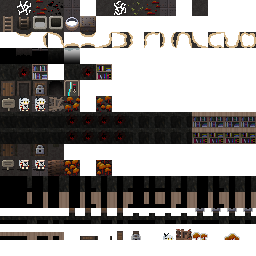
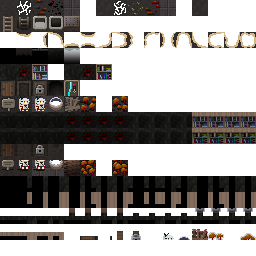
스프라이트 수정, 이미지 배열 수정

diff --git a/core/src/main/java/com/gfpixel/gfpixeldungeon/sprites/ItemSpriteSheet.java b/core/src/main/java/com/gfpixel/gfpixeldungeon/sprites/ItemSpriteSheet.java
@@ -51,12 +51,13 @@ public class ItemSpriteSheet {
 		assignItemRect(WEAPON_HOLDER,   14, 14);
 		assignItemRect(ARMOR_HOLDER,    14, 12);
 		assignItemRect(WAND_HOLDER,     14, 14);
-		assignItemRect(RING_HOLDER,     8,  10);
+		assignItemRect(RING_HOLDER,     15,  10);
 		assignItemRect(ARTIFACT_HOLDER, 15, 15);
 		assignItemRect(POTION_HOLDER,   10, 14);
 		assignItemRect(SCROLL_HOLDER,   15, 14);
 		assignItemRect(SOMETHING,       8,  13);
 	}
+
 
 	private static final int UNCOLLECTIBLE  =                               xy(1, 2);   //16 slots
 	public static final int GOLD            = UNCOLLECTIBLE+0;
@@ -97,7 +98,7 @@ public class ItemSpriteSheet {
 	private static final int SINGLE_USE     =                               xy(1, 4);   //16 slots
 	public static final int ANKH            = SINGLE_USE+0;
 	public static final int STYLUS          = SINGLE_USE+1;
-	
+	public static final int WEIGHT          = SINGLE_USE+2;
 	public static final int SEAL            = SINGLE_USE+3;
 	public static final int TORCH           = SINGLE_USE+4;
 	public static final int BEACON          = SINGLE_USE+5;
@@ -114,9 +115,9 @@ public class ItemSpriteSheet {
 	static{
 		assignItemRect(ANKH,            10, 16);
 		assignItemRect(STYLUS,          12, 13);
-		
+		assignItemRect(WEIGHT,          14, 12);
 		assignItemRect(SEAL,            9,  15);
-		assignItemRect(TORCH,           12, 15);
+		assignItemRect(TORCH,           15, 15);
 		assignItemRect(BEACON,          16, 15);
 		assignItemRect(BOMB,            10, 13);
 		assignItemRect(HONEYPOT,        14, 12);
@@ -133,17 +134,24 @@ public class ItemSpriteSheet {
 	                                                                                    //32 free slots
 
 	private static final int WEP_TIER1      =                               xy(1, 7);   //8 slots
-	public static final int WORN_SHORTSWORD = WEP_TIER1+0;
-	public static final int CUDGEL          = WEP_TIER1+1;
+	public static final int UMP45        = WEP_TIER1+0;
+	public static final int DP             = WEP_TIER1+1;
 	public static final int KNUCKLEDUSTER   = WEP_TIER1+2;
-	public static final int RAPIER          = WEP_TIER1+3;
+	public static final int UMP40          = WEP_TIER1+3;
 	public static final int DAGGER          = WEP_TIER1+4;
 	public static final int MAGES_STAFF     = WEP_TIER1+5;
+	public static final int SR3          = WEP_TIER1+6;
+	public static final int CANON         = WEP_TIER1+7;
 	static{
-		assignItemRect(WORN_SHORTSWORD, 15, 16);
+		assignItemRect(UMP45, 15, 16);
+		assignItemRect(DP,     15, 16);
 		assignItemRect(KNUCKLEDUSTER,   15, 10);
+		assignItemRect(UMP40, 			   16, 16);
 		assignItemRect(DAGGER,          12, 13);
 		assignItemRect(MAGES_STAFF,     15, 16);
+		assignItemRect(SR3,     15, 16);
+		assignItemRect(CANON,     17, 15);
+
 	}
 
 	private static final int WEP_TIER2      =                               xy(9, 7);   //8 slots
@@ -152,12 +160,14 @@ public class ItemSpriteSheet {
 	public static final int SPEAR           = WEP_TIER2+2;
 	public static final int QUARTERSTAFF    = WEP_TIER2+3;
 	public static final int DIRK            = WEP_TIER2+4;
+	public static final int G36            = WEP_TIER2+5;
 	static{
-		assignItemRect(SHORTSWORD,      13, 13);
+		assignItemRect(SHORTSWORD,      15, 16);
 		assignItemRect(HAND_AXE,        12, 14);
 		assignItemRect(SPEAR,           16, 16);
 		assignItemRect(QUARTERSTAFF,    16, 16);
 		assignItemRect(DIRK,            13, 14);
+		assignItemRect(G36,            16, 16);
 	}
 
 	private static final int WEP_TIER3      =                               xy(1, 8);   //8 slots
@@ -167,13 +177,15 @@ public class ItemSpriteSheet {
 	public static final int ROUND_SHIELD    = WEP_TIER3+3;
 	public static final int SAI             = WEP_TIER3+4;
 	public static final int WHIP            = WEP_TIER3+5;
+	public static final int C96            = WEP_TIER3+6;
 	static{
-		assignItemRect(SWORD,           14, 14);
+		assignItemRect(SWORD,           16, 16);
 		assignItemRect(MACE,            15, 15);
-		assignItemRect(SCIMITAR,        13, 16);
-		assignItemRect(ROUND_SHIELD,    16, 16);
+		assignItemRect(SCIMITAR,        16, 16);
+		assignItemRect(ROUND_SHIELD,    15, 14);
 		assignItemRect(SAI,             16, 16);
 		assignItemRect(WHIP,            14, 14);
+		assignItemRect(C96,            8, 12);
 	}
 
 	private static final int WEP_TIER4      =                               xy(9, 8);   //8 slots
@@ -182,14 +194,16 @@ public class ItemSpriteSheet {
 	public static final int FLAIL           = WEP_TIER4+2;
 	public static final int RUNIC_BLADE     = WEP_TIER4+3;
 	public static final int ASSASSINS_BLADE = WEP_TIER4+4;
-	public static final int CROSSBOW        = WEP_TIER4+5;
+	public static final int AWP               = WEP_TIER4+5;
+	public static final int CROSSBOW        = WEP_TIER4+6;
 	static{
 		assignItemRect(LONGSWORD,       15, 15);
 		assignItemRect(BATTLE_AXE,      16, 16);
 		assignItemRect(FLAIL,           14, 14);
 		assignItemRect(RUNIC_BLADE,     14, 14);
 		assignItemRect(ASSASSINS_BLADE, 14, 15);
-		assignItemRect(CROSSBOW,        15, 15);
+		assignItemRect(AWP,               16, 18);
+		assignItemRect(CROSSBOW,        16, 18);
 	}
 
 	private static final int WEP_TIER5      =                               xy(1, 9);   //8 slots
@@ -198,19 +212,31 @@ public class ItemSpriteSheet {
 	public static final int GLAIVE          = WEP_TIER5+2;
 	public static final int GREATAXE        = WEP_TIER5+3;
 	public static final int GREATSHIELD     = WEP_TIER5+4;
-	public static final int GAUNTLETS       = WEP_TIER5+5;
+	public static final int LAR              = WEP_TIER5+5;
 	static{
 		assignItemRect(GREATSWORD,  16, 16);
 		assignItemRect(WAR_HAMMER,  16, 16);
 		assignItemRect(GLAIVE,      16, 16);
 		assignItemRect(GREATAXE,    12, 16);
 		assignItemRect(GREATSHIELD, 12, 16);
-		assignItemRect(GAUNTLETS,   13, 15);
+		assignItemRect(LAR,            11, 15);
 	}
 
-	                                                                                    //8 free slots
+	private static final int WEP_TIER6      =                               xy(1, 12);
+	public static final int NTW20            = WEP_TIER6+0;
+	public static final int MG42			= WEP_TIER6+1;
+	public static final int SAIGA			= WEP_TIER6+2;
+	public static final int NAGANT			= WEP_TIER6+3;
+	public static final int GROZA			= WEP_TIER6+4;
+	static{
+		assignItemRect(NTW20,     17, 17);
+		assignItemRect(MG42,     17, 17);
+		assignItemRect(SAIGA,     17, 17);
+		assignItemRect(NAGANT,     17, 17);
+		assignItemRect(GROZA,     17, 17);
+	}
 
-	private static final int MISSILE_WEP    =                               xy(1, 10);  //16 slots. 3 per tier + boomerang
+	private static final int MISSILE_WEP    =                               xy(1, 5);  //16 slots. 3 per tier + boomerang
 	public static final int BOOMERANG       = MISSILE_WEP+0;
 	
 	public static final int DART            = MISSILE_WEP+1;
@@ -231,25 +257,25 @@ public class ItemSpriteSheet {
 	
 	static{
 		assignItemRect(BOOMERANG,       14, 14);
-		
-		assignItemRect(DART,            15, 15);
-		assignItemRect(THROWING_KNIFE,  12, 13);
-		assignItemRect(THROWING_STONE,  12, 10);
-		
+
+		assignItemRect(DART,            11, 11);
+		assignItemRect(THROWING_KNIFE,  16, 14);
+		assignItemRect(THROWING_STONE,  9,  9);
+
 		assignItemRect(FISHING_SPEAR,   11, 11);
 		assignItemRect(SHURIKEN,        12, 12);
-		
-		assignItemRect(THROWING_SPEAR,  13, 13);
+
+		assignItemRect(THROWING_SPEAR,  13, 12);
 		assignItemRect(BOLAS,           15, 14);
-		
-		assignItemRect(JAVELIN,         16, 16);
+
+		assignItemRect(JAVELIN,         16, 15);
 		assignItemRect(TOMAHAWK,        13, 13);
-		
+
 		assignItemRect(TRIDENT,         16, 16);
 		assignItemRect(THROWING_HAMMER, 12, 12);
 	}
 	
-	public static final int TIPPED_DARTS    =                               xy(1, 11);  //16 slots
+	public static final int TIPPED_DARTS    =                               xy(1, 6);  //16 slots
 	public static final int ROT_DART        = TIPPED_DARTS+0;
 	public static final int INCENDIARY_DART = TIPPED_DARTS+1;
 	public static final int HOLY_DART       = TIPPED_DARTS+2;
@@ -263,10 +289,10 @@ public class ItemSpriteSheet {
 	public static final int DISPLACING_DART = TIPPED_DARTS+10;
 	static {
 		for (int i = TIPPED_DARTS; i < TIPPED_DARTS+16; i++)
-			assignItemRect(i, 15, 15);
+			assignItemRect(i, 11, 11);
 	}
-	
-	private static final int ARMOR          =                               xy(1, 12);  //16 slots
+
+	private static final int ARMOR          =                               xy(1, 11);  //16 slots
 	public static final int ARMOR_CLOTH     = ARMOR+0;
 	public static final int ARMOR_LEATHER   = ARMOR+1;
 	public static final int ARMOR_MAIL      = ARMOR+2;
@@ -276,6 +302,7 @@ public class ItemSpriteSheet {
 	public static final int ARMOR_MAGE      = ARMOR+6;
 	public static final int ARMOR_ROGUE     = ARMOR+7;
 	public static final int ARMOR_HUNTRESS  = ARMOR+8;
+	public static final int ARMOR_UMP40 	= ARMOR+9;
 	static{
 		assignItemRect(ARMOR_CLOTH,     15, 12);
 		assignItemRect(ARMOR_LEATHER,   14, 13);
@@ -286,6 +313,7 @@ public class ItemSpriteSheet {
 		assignItemRect(ARMOR_MAGE,      15, 15);
 		assignItemRect(ARMOR_ROGUE,     14, 12);
 		assignItemRect(ARMOR_HUNTRESS,  13, 15);
+		assignItemRect(ARMOR_UMP40,  12, 12);
 	}
 
 	                                                                                    //16 free slots
@@ -304,9 +332,11 @@ public class ItemSpriteSheet {
 	public static final int WAND_WARDING        = WANDS+10;
 	public static final int WAND_REGROWTH       = WANDS+11;
 	public static final int WAND_TRANSFUSION    = WANDS+12;
+	public static final int M79                   = WANDS+13;
+	public static final int M84                   = WANDS+14;
 	static {
 		for (int i = WANDS; i < WANDS+16; i++)
-			assignItemRect(i, 14, 14);
+			assignItemRect(i, 15, 15);
 	}
 
 	private static final int RINGS          =                               xy(1, 15);  //16 slots
@@ -324,7 +354,7 @@ public class ItemSpriteSheet {
 	public static final int RING_DIAMOND    = RINGS+11;
 	static {
 		for (int i = RINGS; i < RINGS+16; i++)
-			assignItemRect(i, 8, 10);
+			assignItemRect(i, 15, 10);
 	}
 
 	private static final int ARTIFACTS          =                            xy(1, 16);  //32 slots
@@ -376,7 +406,6 @@ public class ItemSpriteSheet {
 		assignItemRect(ARTIFACT_ROSE2,      14, 14);
 		assignItemRect(ARTIFACT_ROSE3,      14, 14);
 	}
-
 	                                                                                    //32 free slots
 
 	private static final int SCROLLS        =                               xy(1, 20);  //16 slots
@@ -392,11 +421,12 @@ public class ItemSpriteSheet {
 	public static final int SCROLL_BERKANAN = SCROLLS+9;
 	public static final int SCROLL_ODAL     = SCROLLS+10;
 	public static final int SCROLL_TIWAZ    = SCROLLS+11;
+	public static final int CLIP             = SCROLLS+12;
 	static {
 		for (int i = SCROLLS; i < SCROLLS+16; i++)
 			assignItemRect(i, 15, 14);
 	}
-	
+
 	private static final int STONES        =                                xy(1, 21);  //16 slots
 	public static final int STONE_KAUNAN   = STONES+0;
 	public static final int STONE_SOWILO   = STONES+1;
@@ -412,7 +442,7 @@ public class ItemSpriteSheet {
 	public static final int STONE_TIWAZ    = STONES+11;
 	static {
 		for (int i = STONES; i < STONES+16; i++)
-			assignItemRect(i, 14, 12);
+			assignItemRect(i, 11, 13);
 	}
 
 	private static final int POTIONS        =                               xy(1, 22);  //16 slots
@@ -451,7 +481,7 @@ public class ItemSpriteSheet {
 			assignItemRect(i, 10, 10);
 	}
 
-	                                                                                    //16 free slots
+	//16 free slots
 
 	private static final int FOOD       =                                   xy(1, 25);  //16 slots
 	public static final int MEAT        = FOOD+0;
@@ -463,6 +493,7 @@ public class ItemSpriteSheet {
 	public static final int PASTY       = FOOD+6;
 	public static final int PUMPKIN_PIE = FOOD+7;
 	public static final int CANDY_CANE  = FOOD+8;
+	public static final int MACCOL       = FOOD+9;
 	static{
 		assignItemRect(MEAT,        15, 11);
 		assignItemRect(STEAK,       15, 11);
@@ -473,6 +504,7 @@ public class ItemSpriteSheet {
 		assignItemRect(PASTY,       16, 11);
 		assignItemRect(PUMPKIN_PIE, 16, 12);
 		assignItemRect(CANDY_CANE,  13, 16);
+		assignItemRect(MACCOL,       7, 10);
 	}
 
 	private static final int QUEST  =                                       xy(1, 26);  //32 slots
